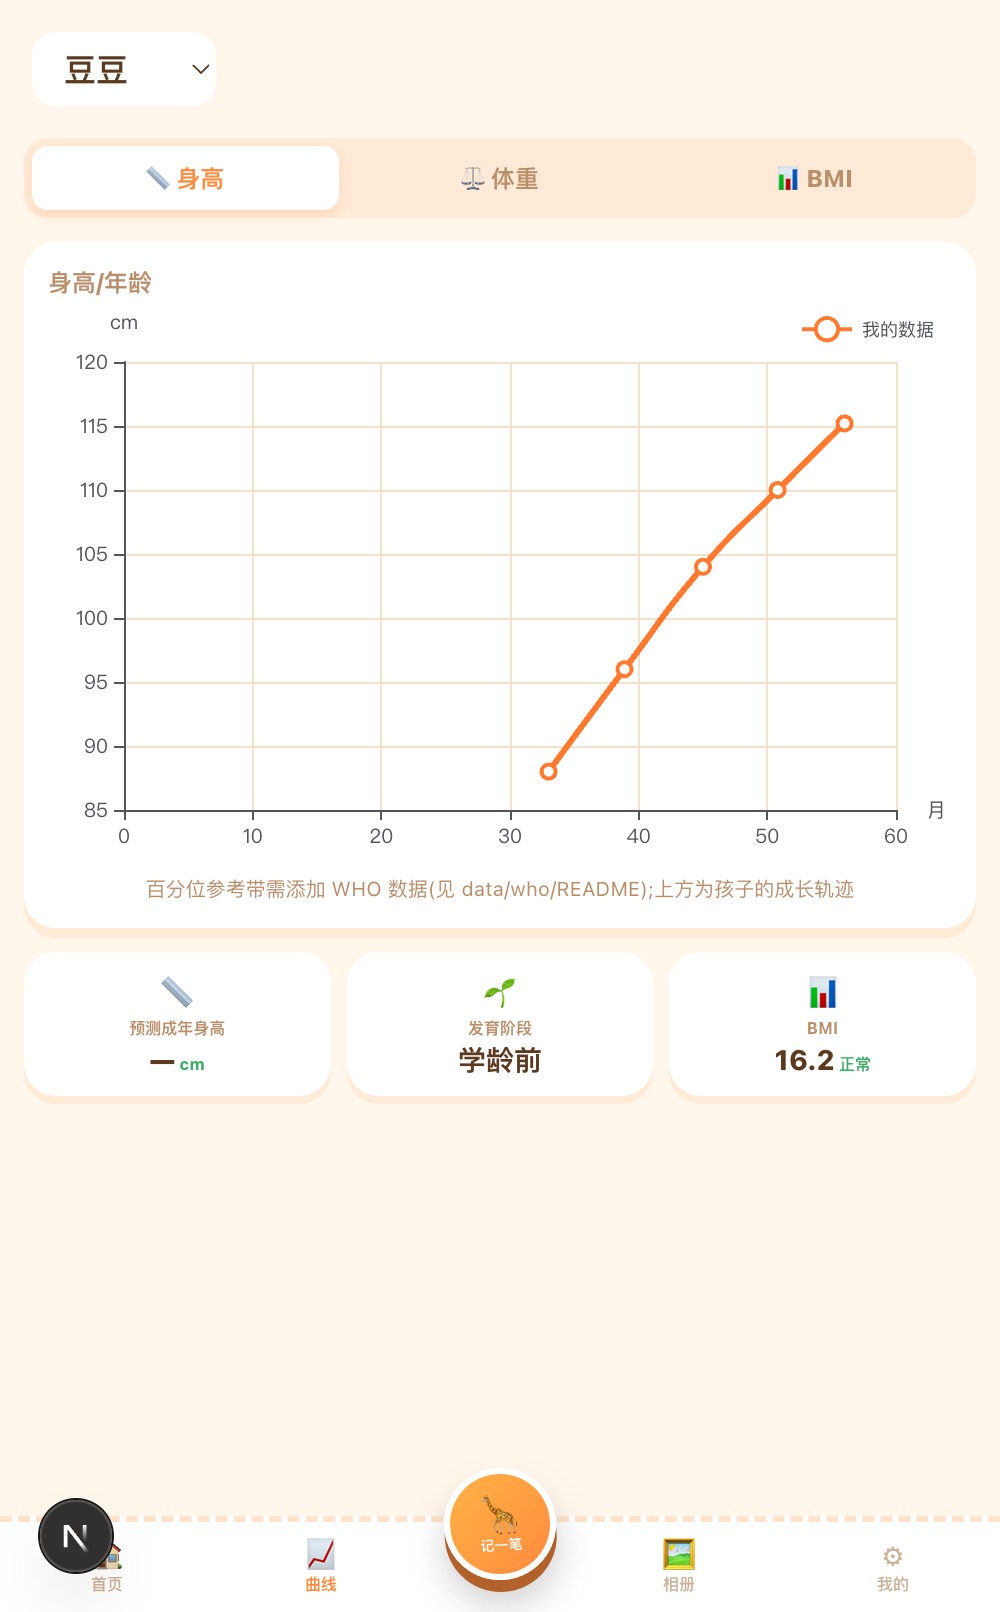
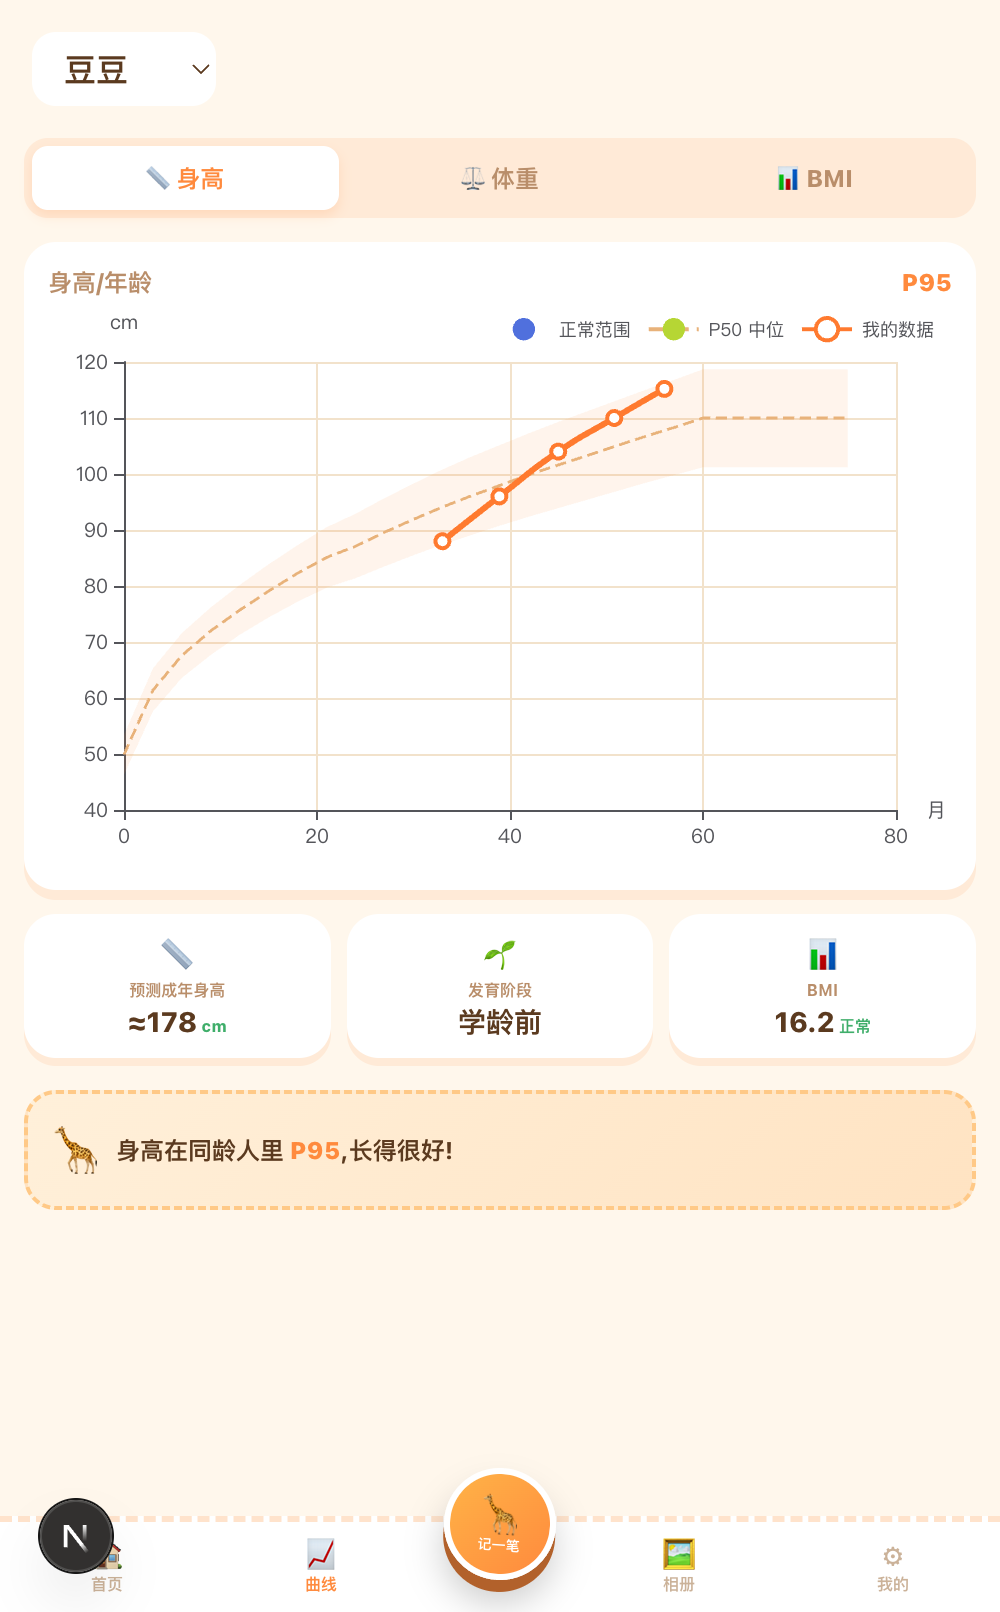
feat(growth): 内置 WHO 百分位数据(0-60月 身高/体重),曲线出带+当前百分位
data/who: lhfa/wfa(男女各一,来自 ericpgreen/WHO-growth-charts)+ 转换脚本 parse-who-ericpgreen.mjs。曲线页显示 P3~P97 带 + P50 中位 + 孩子百分位 + 长颈鹿解读。种子豆豆设为男性、addChild 增加性别、API 区分 other-gender/missing-data 提示。

diff --git a/src/app/(app)/curves/page.tsx b/src/app/(app)/curves/page.tsx
@@ -19,7 +19,7 @@ type GrowthResp = {
     heightPercentile: number | null;
   };
   bands: { height: { ages: number[]; p3: number[]; p50: number[]; p97: number[] } | null };
-  hasReferenceData: boolean;
+  bandsReason: 'ok' | 'other-gender' | 'missing-data';
 };
 
 type Metric = 'height' | 'weight' | 'bmi';
@@ -94,9 +94,11 @@ export default function CurvesPage() {
           )}
         </div>
         {data ? <GrowthChart option={option} /> : <div style={{ height: 280 }} />}
-        {metric === 'height' && data && !data.hasReferenceData && (
+        {metric === 'height' && data && data.bandsReason !== 'ok' && (
           <p className="mt-1 text-center text-[10px]" style={{ color: 'var(--muted)' }}>
-            百分位参考带需添加 WHO 数据(见 data/who/README);上方为孩子的成长轨迹
+            {data.bandsReason === 'other-gender'
+              ? '设置孩子性别(男/女)后显示 WHO 百分位带;上方为孩子的成长轨迹'
+              : '百分位参考带需添加 WHO 数据(见 data/who/README);上方为孩子的成长轨迹'}
           </p>
         )}
       </div>
@@ -109,7 +111,7 @@ export default function CurvesPage() {
         </div>
       )}
 
-      {data && data.hasReferenceData && data.derived.heightPercentile != null && (
+      {data && data.bandsReason === 'ok' && data.derived.heightPercentile != null && (
         <div className="mx-3 mb-6 flex items-center gap-2 rounded-2xl p-3" style={{ background: 'linear-gradient(135deg,#FFF0DA,#FFE3C2)', border: '2px dashed #FFC987' }}>
           <span className="text-2xl">🦒</span>
           <span className="text-xs font-bold leading-tight" style={{ color: 'var(--ink)' }}>

diff --git a/src/app/api/growth/[childId]/route.ts b/src/app/api/growth/[childId]/route.ts
@@ -43,8 +43,13 @@ export async function GET(_req: Request, { params }: { params: Promise<{ childId
   const latestBmi =
     latest?.height && latest?.weight ? +bmi(latest.weight, latest.height / 100).toFixed(1) : null;
 
-  // 百分位带 + 当前百分位(需 WHO LMS 数据)
+  // 百分位带 + 当前百分位(需 WHO LMS 数据 + 已知性别)
   const heightTable = await getLmsTable('lhfa', gender);
+  let bandsReason: 'ok' | 'other-gender' | 'missing-data';
+  if (gender === 'OTHER') bandsReason = 'other-gender';
+  else if (heightTable) bandsReason = 'ok';
+  else bandsReason = 'missing-data';
+
   let heightBands = null;
   let heightPercentile = null;
   if (heightTable && latest?.height) {
@@ -70,6 +75,6 @@ export async function GET(_req: Request, { params }: { params: Promise<{ childId
       heightPercentile,
     },
     bands: { height: heightBands },
-    hasReferenceData: !!heightTable,
+    bandsReason,
   });
 }

diff --git a/prisma/seed.ts b/prisma/seed.ts
@@ -5,11 +5,11 @@ const prisma = new PrismaClient();
 async function main() {
   const child = await prisma.child.upsert({
     where: { id: 'seed-child-1' },
-    update: {},
+    update: { gender: 'MALE' },
     create: {
       id: 'seed-child-1',
       name: '豆豆',
-      gender: 'OTHER',
+      gender: 'MALE',
       birthDate: new Date('2021-04-01'),
       themeId: 'warm',
       fatherHeight: 178,

diff --git a/src/app/(app)/settings/page.tsx b/src/app/(app)/settings/page.tsx
@@ -45,10 +45,12 @@ export default function SettingsPage() {
     if (!name) return;
     const bd = window.prompt('出生日期(YYYY-MM-DD)', '2021-01-01');
     if (!bd) return;
+    const g = window.prompt('性别(输入 男 或 女,影响百分位对比)', '男');
+    const gender = g === '女' ? 'FEMALE' : g === '男' ? 'MALE' : 'OTHER';
     const res = await fetch('/api/children', {
       method: 'POST',
       headers: { 'Content-Type': 'application/json' },
-      body: JSON.stringify({ name, gender: 'OTHER', birthDate: new Date(bd).toISOString() }),
+      body: JSON.stringify({ name, gender, birthDate: new Date(bd).toISOString() }),
     });
     const d = await res.json();
     if (d.child) {

diff --git a/data/who/README.md b/data/who/README.md
@@ -5,24 +5,29 @@
 
 ## 当前状态
 
-- `lhfa-boys-sample.json` — 仅用于单元测试的 3 点样本(0/12/24 月)。
+已内置 WHO Child Growth Standards(0–60 月)数据:
 
-## 真实数据(Phase 2 曲线页前置)
+- `lhfa-boys.json` / `lhfa-girls.json` — 身长(0–23 月)+ 身高(24–60 月)/ 年龄,61 行
+- `wfa-boys.json` / `wfa-girls.json` — 体重 / 年龄(0–60 月),61 行
+- `lhfa-boys-sample.json` — 仅用于单元测试的 3 点样本
+- `raw/` — 原始 WHO CSV(lfa/hfa/wfa,男女各一)
 
-需要放入以下文件(字段 `{age, L, M, S}`,age 单位=月):
+**来源**:[WHO Child Growth Standards](https://www.who.int/tools/child-growth-standards),经
+[ericpgreen/WHO-growth-charts](https://github.com/ericpgreen/WHO-growth-charts) 的 CSV 整理,
+用 `scripts/parse-who-ericpgreen.mjs` 转换得到。
 
-- `lhfa-boys.json` / `lhfa-girls.json` — 身长/身高-年龄(0-60 月,WHO 标准;5-19 岁用 WHO Reference 2007 拼接)
-- `wfa-boys.json` / `wfa-girls.json` — 体重-年龄(0-120 月)
-- `bmi-boys.json` / `bmi-girls.json` — BMI-年龄(0-60 月 + 5-19)
+### 重新生成(从 raw CSV)
 
-### 获取与转换
+```bash
+# raw/ 下的 CSV 已内置;也可自行重新下载到 data/who/raw/ 后重跑:
+node scripts/parse-who-ericpgreen.mjs
+```
 
-1. 从 WHO 下载 zscore 表文本(每行 `age L M S F`):
-   - WHO Child Growth Standards:https://www.who.int/tools/child-growth-standards
-   - WHO Reference 2007(5-19 岁):https://www.who.int/tools/growth-reference-data-for-5to19-years
-2. 用转换脚本:
-   ```bash
-   tsx scripts/who-to-json.ts < 下载的zscore文本.txt > data/who/lhfa-boys.json
-   ```
+## 待扩展(可选)
+
+- 5–19 岁(WHO Reference 2007):当前 0–60 月数据在 60 月后取末端值近似。若需精确,
+  可补充 `lhfa-*.json` 到 228 月(19 岁),来源:https://www.who.int/tools/growth-reference-data-for-5to19-years
+- BMI/年龄(`bmi-*.json`):BMI **数值**已自动计算并显示;BMI **百分位**需补充该表才会出现。
 
 > 所有数值仅用于「对比正常范围」的科普展示,UI 标注「仅供参考,非医学诊断」。
+